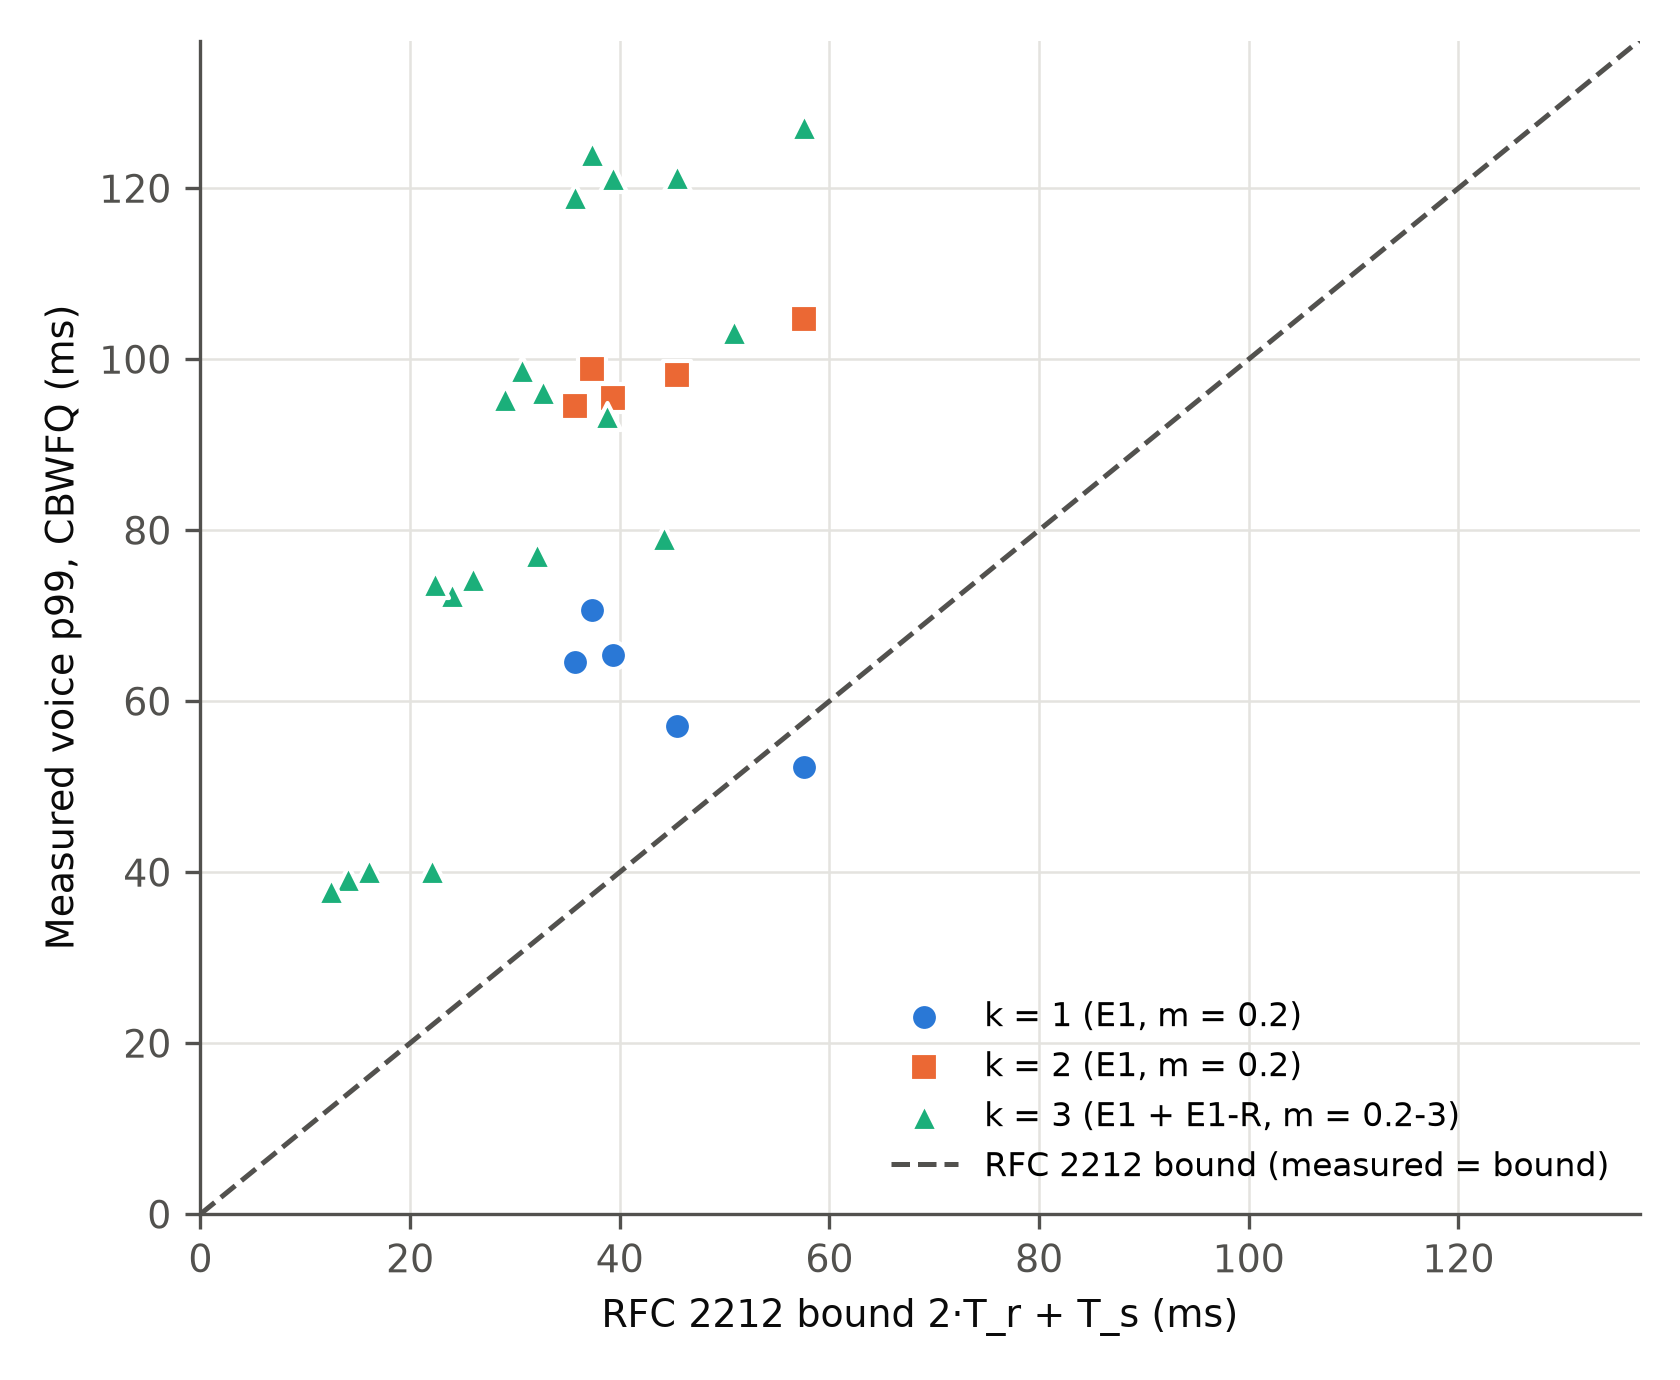
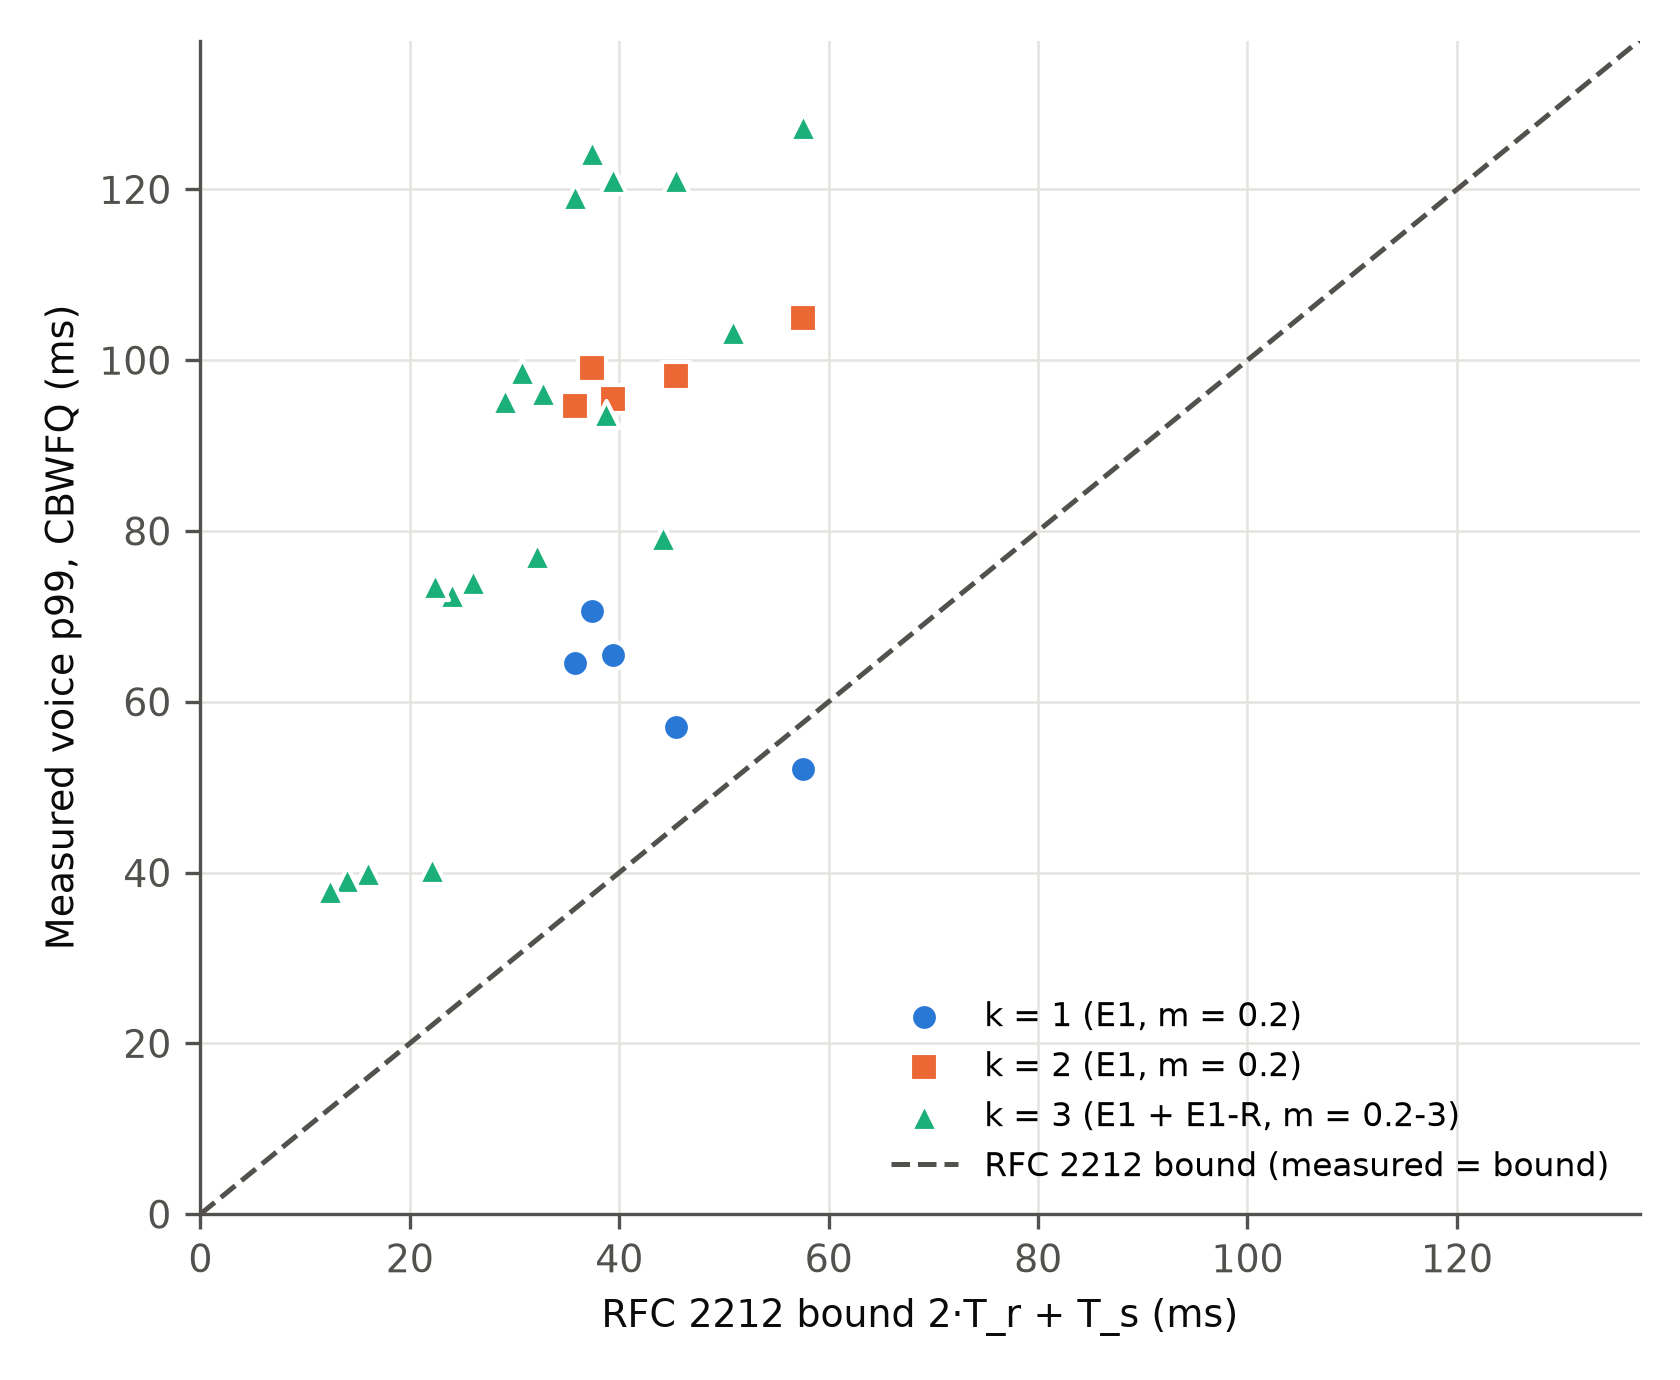
Fig. 2 with cell medians; c7200 bound ratios (exploratory); final title

diff --git a/F5_analisis/code/explore_e4b_bound.py b/F5_analisis/code/explore_e4b_bound.py
@@ -1,0 +1,39 @@
+"""EXPLORATORY, analysis plan v2 §6.5: CBWFQ on the c7200 (E4(b), 1 Mbit/s, k = 1 and 3) against the RFC 2212 bound 2*T_r + T_s,
+with the same method as E4(a) in confirm.py (median of the per-run ratio measured/bound, 95 % bootstrap CI, same seed and B),
+next to the IOU ratios of E4a.csv and the bound constants quoted in the paper.
+Output: results/E4b_cota.csv, results/numbers_e4b.json"""
+import csv, json, os, sys
+import numpy as np
+HERE = os.path.dirname(os.path.abspath(__file__)); sys.path.insert(0, HERE)
+import core as C, stats_lib as S
+RES = os.path.join(HERE, "..", "results")
+B = 10000
+Ts = lambda L: 1514 * 8 / L * 1e3                       # ms
+Tr = lambda m, calls=1: 214 * 8 / (calls * 85.6e3 * (1 + m)) * 1e3   # ms
+bound = lambda L, m: 2 * Tr(m) + Ts(L)
+
+main = C.prep([r for r in csv.DictReader(open(os.path.join(RES, "runs.csv"))) if r["main"] == "True"])
+out = []
+for k in ("1", "3"):
+    cid = f"E4b_C7200_CBWFQ_L1000k_k{k}_m0.2_c1_f1514"
+    p = np.array([r["p99f"] for r in main if r["cell"] == cid])
+    assert len(p) == 17, (cid, len(p))
+    b = bound(1000000, 0.2)
+    out.append(dict(cell=cid, platform="C7200", k=int(k), n=len(p), p99_median=float(np.median(p)), bound_ms=b,
+                    ratio_median=float(np.median(p / b)), ratio_ci95=S.boot_ci(p / b, B=B, seed=C.SEED_CELL)))
+iou = {r["cell"]: r for r in csv.DictReader(open(os.path.join(RES, "E4a.csv")))}
+for k in ("1", "2", "3"):
+    r = iou[f"E1_IOU_CBWFQ_L1000k_k{k}_m0.2_c1_f1514"]
+    lo, hi = (float(x) for x in r["ratio_main_ci95"].strip("()").split(","))
+    out.append(dict(cell=r["cell"], platform="IOU", k=int(k), n=17, p99_median=None, bound_ms=float(r["bound_main_ms"]),
+                    ratio_median=float(r["ratio_main"]), ratio_ci95=(lo, hi)))
+with open(os.path.join(RES, "E4b_cota.csv"), "w", newline="") as fh:
+    w = csv.DictWriter(fh, fieldnames=list(out[0])); w.writeheader(); w.writerows(out)
+nums = dict(E4b_bound=out, bound_constants_ms=dict(two_T_r_m02=2 * Tr(0.2), bound_L500k=bound(500000, 0.2), bound_L1000k=bound(1000000, 0.2),
+                                                   bound_L5000k=bound(5000000, 0.2)))
+json.dump(nums, open(os.path.join(RES, "numbers_e4b.json"), "w"), indent=1)
+print("EXPLORATORY E4(b): CBWFQ p99 / (2*T_r + T_s), 1 Mbit/s, m = 0.2, one call; median of per-run ratio [95 % bootstrap CI]")
+for r in out:
+    print(f"  {r['platform']:5s} k={r['k']}  bound {r['bound_ms']:.2f} ms  ratio {r['ratio_median']:.3f} [{r['ratio_ci95'][0]:.3f}, {r['ratio_ci95'][1]:.3f}]"
+          + (f"  p99 median {r['p99_median']:.2f} ms" if r["p99_median"] is not None else ""))
+print("  bound constants (ms):", {k: round(v, 2) for k, v in nums["bound_constants_ms"].items()})

diff --git a/F5_analisis/code/figures_paper.py b/F5_analisis/code/figures_paper.py
@@ -37,7 +37,7 @@ caps.append("Fig. 1 (paper_fig1_E1_k3_p99.png). Voice one-way delay p99 against 
             "Lines: median of 17 runs; bands: interquartile range (IQR bands are narrower than the markers in most cells). Solid: Cisco IOS (IOU); dashed: Linux. Both axes logarithmic. "
             "LLQ, FIFO-C and CBWFQ were not run at 10 Mbit/s (IOU input limit).")
 
-# Fig 2: H3 — CBWFQ cell mean vs RFC 2212 bound, k = 1, 2, 3
+# Fig 2: H3 — CBWFQ cell median vs RFC 2212 bound, k = 1, 2, 3
 fig, ax = plt.subplots(figsize=(5.6, 4.6)); mx = 0
 for i, k in enumerate(("1", "2", "3")):
     xs, ys = [], []
@@ -45,13 +45,13 @@ for i, k in enumerate(("1", "2", "3")):
         for m in ((0.2,) if k != "3" else (0.2, 0.5, 1.0, 3.0)):
             cid = f"E1_IOU_CBWFQ_L{L}k_k{k}_m0.2_c1_f1514" if m == 0.2 else f"E1R_IOU_CBWFQ_L{L}k_k3_m{m:g}_c1_f1514"
             if cid in cells:
-                xs.append(2 * C.Tr(m) + C.Ts(L * 1000)); ys.append(float(np.mean(cells[cid])))
+                xs.append(2 * C.Tr(m) + C.Ts(L * 1000)); ys.append(float(np.median(cells[cid])))
     ax.scatter(xs, ys, s=42, color=SER[i], marker=MK[i], edgecolor=SURF, linewidth=1, zorder=3,
                label=f"k = {k}" + (" (E1, m = 0.2)" if k != "3" else " (E1 + E1-R, m = 0.2-3)")); mx = max(mx, max(xs), max(ys))
 lim = [0, mx * 1.08]; ax.plot(lim, lim, color=TXT2, lw=1.2, ls="--", label="RFC 2212 bound (measured = bound)")
 ax.set_xlim(lim); ax.set_ylim(lim); ax.set_xlabel("RFC 2212 bound 2·T_r + T_s (ms)"); ax.set_ylabel("Measured voice p99, CBWFQ (ms)")
 ax.legend(fontsize=8, loc="lower right"); fig.tight_layout(); fig.savefig(os.path.join(RES, "paper_fig2_H3_cota.png"), dpi=300); plt.close(fig)
-caps.append("Fig. 2 (paper_fig2_H3_cota.png). CBWFQ voice p99 (cell mean of 17 runs) against the weighted-fair-queuing bound of RFC 2212, "
+caps.append("Fig. 2 (paper_fig2_H3_cota.png). CBWFQ voice p99 (cell median of 17 runs) against the weighted-fair-queuing bound of RFC 2212, "
             "2·T_r + T_s, for k = 1, 2 and 3 competing classes. Points above the dashed line exceed the bound.")
 
 # Fig 3: MOS vs playout buffer, 1 Mbit/s, k=3, T_resto 100 ms; two curves per panel (Bpl 4.3 without / 25.1 with loss concealment)

diff --git a/README.md b/README.md
@@ -1,7 +1,7 @@
 # CBWFQ vs LLQ for voice on slow shared home-office uplinks — reproducibility package
 
 Code, frozen protocol, analysis plan, per-run results and figures of the measurement campaign behind the manuscript
-*When Is Strict Priority Needed for Voice on Slow Home-Office Uplinks? A Replicated Emulation Study of CBWFQ, LLQ, fq_codel and CAKE* (title of the revised manuscript; to be checked against the final version).
+*When Is Strict Priority Needed for Voice on Slow Home-Office Uplinks? A Replicated Emulation Study of CBWFQ, LLQ, fq_codel and CAKE*.
 
 **Authors:** Ronald Ponguillo-Intriago, Derian S. Barros Palma, Jonathan A. Rodríguez Borbor.
 Facultad de Ciencias Matemáticas y Físicas, Universidad de Guayaquil, Guayaquil 090510, Ecuador.
@@ -69,6 +69,7 @@ Scripts marked **raw** need the Zenodo archive unpacked into `F4_campana/` (same
 | `paper_fig1`–`paper_fig5` | `figures_paper.py` | `runs.csv` and the CSV/JSON outputs above |
 | `paper_fig6_colapso.png` | `figures_paper.py` | raw (two runs) |
 | `paper_fig0_topologia.pdf/.png` | `fig_topologia.py` | — |
+| `EXPLORATORIO_E4B_COTA.txt`, `E4b_cota.csv`, `numbers_e4b.json` (c7200 CBWFQ against the RFC 2212 bound, exploratory) | `explore_e4b_bound.py` (`python3 explore_e4b_bound.py > ../results/EXPLORATORIO_E4B_COTA.txt`) | `runs.csv`, `E4a.csv` |
 
 Example from a clean clone (no raw data needed):
 
@@ -98,7 +99,7 @@ Dynamips measured at the start of each session). Changes made after the protocol
 
 ## 6. Open items (to be completed before release)
 
-- [ ] Title in `README.md` and `CITATION.cff` checked against the final manuscript.
+- [x] Title in `README.md` and `CITATION.cff` checked against the final manuscript.
 - [x] Zenodo data record with the raw archive; DOI in this README. To do: DOI in the manuscript (*Data availability*); publish the record.
 - [ ] Code DOI from the GitHub release `v1.0.0`.
 - [ ] `CHECKSUMS.sha256` at the repository root regenerated just before the release.

diff --git a/F5_analisis/results/FIGURAS_PIES.md b/F5_analisis/results/FIGURAS_PIES.md
@@ -4,7 +4,7 @@ Fig. 0 (paper_fig0_topologia.pdf/.png). Emulated testbed (GNS3 3.0.6, single hos
 
 Fig. 1 (paper_fig1_E1_k3_p99.png). Voice one-way delay p99 against line capacity with three saturated competing classes (E1, k = 3, one call, m = 0.2). Lines: median of 17 runs; bands: interquartile range (IQR bands are narrower than the markers in most cells). Solid: Cisco IOS (IOU); dashed: Linux. Both axes logarithmic. LLQ, FIFO-C and CBWFQ were not run at 10 Mbit/s (IOU input limit).
 
-Fig. 2 (paper_fig2_H3_cota.png). CBWFQ voice p99 (cell mean of 17 runs) against the weighted-fair-queuing bound of RFC 2212, 2·T_r + T_s, for k = 1, 2 and 3 competing classes. Points above the dashed line exceed the bound.
+Fig. 2 (paper_fig2_H3_cota.png). CBWFQ voice p99 (cell median of 17 runs) against the weighted-fair-queuing bound of RFC 2212, 2·T_r + T_s, for k = 1, 2 and 3 competing classes. Points above the dashed line exceed the bound.
 
 Fig. 3 (paper_fig3_MOS_buffer.png). Estimated MOS (E-model, ITU-T G.107 with G.711 parameters of G.113) against the static playout buffer, at 1 Mbit/s with k = 3 and a rest-of-path delay of 100 ms, for Bpl = 4.3 (no packet-loss concealment, solid) and Bpl = 25.1 (concealment, dashed); median of 17 runs; where both curves give the same value, one label is shown. Values below 1.0 produced by the G.107 polynomial for small R are shown as 1.0. CBWFQ stays at or below 1.8 with buffers up to 60 ms and reaches 3.0-3.5 only with a 100-ms buffer and concealment; LLQ and CAKE stay at 4.2-4.4 in all 18 combinations (buffer 40/60/100 ms, rest-of-path 50/100/150 ms, Bpl 4.3/25.1).
 
